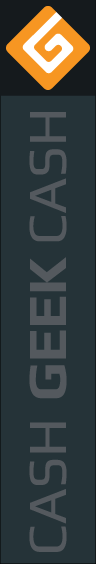
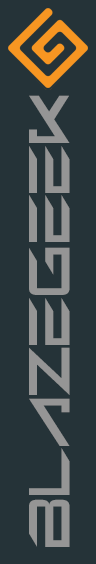
Updates gfx for splash screen, and replaces chevron and warning gfx. Re-versions to 0.0.2.2

diff --git a/src/clientversion.h b/src/clientversion.h
@@ -17,7 +17,7 @@
 #define CLIENT_VERSION_MAJOR 0
 #define CLIENT_VERSION_MINOR 0
 #define CLIENT_VERSION_REVISION 2
-#define CLIENT_VERSION_BUILD 1
+#define CLIENT_VERSION_BUILD 2
 
 //! Set to true for release, false for prerelease or test build
 #define CLIENT_VERSION_IS_RELEASE true
